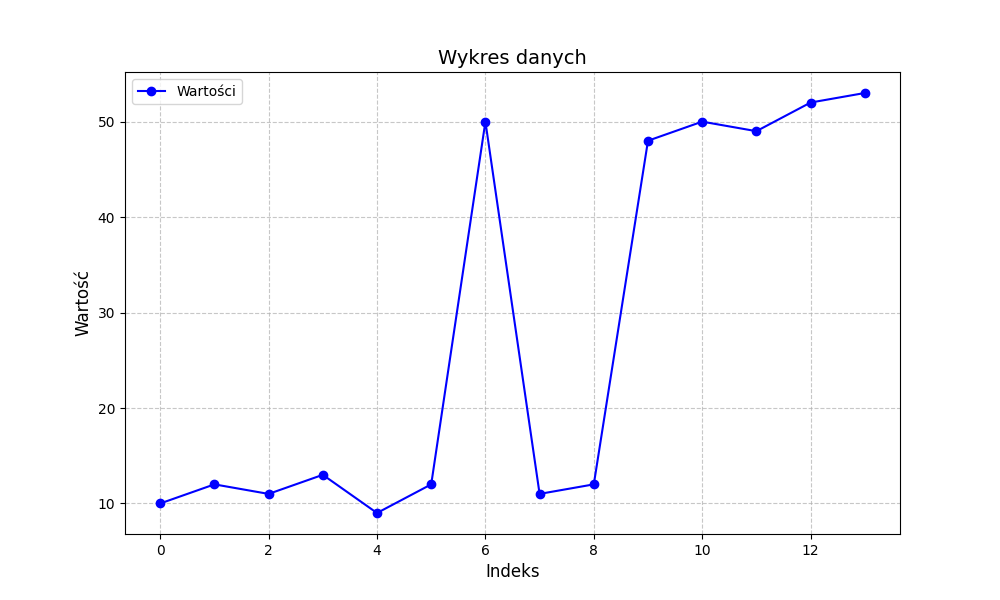
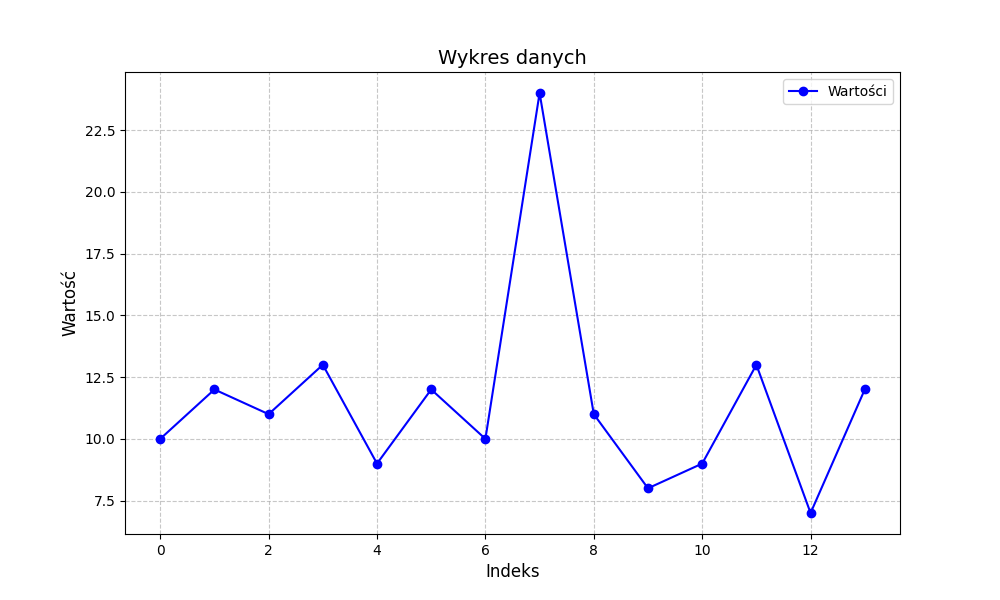
feat/fix: data for paper

diff --git a/presentatioFile/anomalyPlot.py b/presentatioFile/anomalyPlot.py
@@ -1,16 +1,62 @@
 import pandas as pd
 import matplotlib.pyplot as plt
 
-df = pd.read_csv('presentatioFile/dane.csv')
+#df = pd.read_csv('presentatioFile/dane1.csv')
+
+point_data = [ 20, 17, 21, 18, 19, 21, 22, 18, 20, 52, 20, 17, 21, 18, 19, 21, 22, 18, 20,]
+point_anomaly = [ 0, 0, 0, 0, 0, 0, 0, 0, 0, 1, 0, 0, 0, 0, 0, 0, 0, 0, 0]
+df_point = pd.DataFrame({"Value": point_data, "Anomaly": point_anomaly})
+
+collective_data = [ 20, 17, 21, 18, 19, 21, 22, 18, 50, 52, 51, 54, 21, 18, 19, 21, 22, 18, 20,]
+collective_data_anomaly = [ 0, 0, 0, 0, 0, 0, 0, 0, 1, 1, 1, 1, 0, 0, 0, 0, 0, 0, 0]
+df_collective= pd.DataFrame({"Value": collective_data, "Anomaly": collective_data_anomaly})
+
+contextual_data = [ 40, 10, 9, 11, -10, 12, 8, 8, 41, 9, 10, 10, -12, 12, 11, 10, 10, 10, 12, 13, -11]
+contextual_data_anomaly = [ 0, 0,0,0,0,0,0,0,0,0,0,0,0,0,0,0,1,0,0,0,0]
+df_contextual = pd.DataFrame({"Value": contextual_data, "Anomaly": contextual_data_anomaly})
+
+anomaly_point_data = df_point[df_point["Anomaly"] == 1]
+anomaly_collective_data = df_collective[df_collective["Anomaly"] == 1]
+anomaly_contextual_data = df_contextual[df_contextual["Anomaly"] == 1]
 
 plt.figure(figsize=(10, 6))
-plt.plot(df.iloc[:, 0], marker='o', linestyle='-', color='b', label='Wartości')
+plt.plot(point_data, linestyle='-', color='b', label='Value')
 
-plt.title('Wykres danych', fontsize=14)
-plt.xlabel('Indeks', fontsize=12)
-plt.ylabel('Wartość', fontsize=12)
+plt.scatter( anomaly_point_data.index, anomaly_point_data["Value"], color="red", marker="o", label="Anomaly")
+
+plt.title('Point Anomaly Plot', fontsize=14)
+plt.xlabel('Index', fontsize=12)
+plt.ylabel('Value', fontsize=12)
 plt.grid(True, linestyle='--', alpha=0.7)
 plt.legend()
 
-plt.savefig('presentatioFile/wykres.png')
+plt.savefig('presentatioFile/wykres1.png')
+plt.show()
+
+plt.figure(figsize=(10, 6))
+plt.plot(collective_data, linestyle='-', color='b', label='Value')
+
+plt.scatter( anomaly_collective_data.index, anomaly_collective_data["Value"], color="red", marker="o", label="Anomaly")
+
+plt.title('Collective Anomaly Plot', fontsize=14)
+plt.xlabel('Index', fontsize=12)
+plt.ylabel('Value', fontsize=12)
+plt.grid(True, linestyle='--', alpha=0.7)
+plt.legend()
+
+plt.savefig('presentatioFile/wykres2.png')
+plt.show()
+
+plt.figure(figsize=(10, 6))
+plt.plot(contextual_data, linestyle='-', color='b', label='Value')
+
+plt.scatter( anomaly_contextual_data.index, anomaly_contextual_data["Value"], color="red", marker="o", label="Anomaly")
+
+plt.title('Contextual Anomaly Plot', fontsize=14)
+plt.xlabel('Index', fontsize=12)
+plt.ylabel('Value', fontsize=12)
+plt.grid(True, linestyle='--', alpha=0.7)
+plt.legend()
+
+plt.savefig('presentatioFile/wykres3.png')
 plt.show()

diff --git a/print_data.py b/print_data.py
@@ -1,0 +1,30 @@
+import pandas as pd
+import matplotlib.pyplot as plt
+
+def plot_stock_data(csv_path="intel_labeling_dataset.csv"):
+    df = pd.read_csv(csv_path, parse_dates=['Date'], index_col='Date')
+
+    fig, (ax1, ax2) = plt.subplots(nrows=2, ncols=1, figsize=(12, 8), sharex=True)
+
+    ax1.plot(df.index, df['close'], label='Cena (close)', color='royalblue', linewidth=1.5)
+    if 'SMA50' in df.columns:
+        ax1.plot(df.index, df['SMA50'], label='Trend (SMA50)', color='darkorange', linewidth=1.5, linestyle='--')
+    ax1.set_ylabel("Cena", fontsize=12)
+    ax1.legend(loc='upper left')
+    ax1.grid(True, linestyle='--', alpha=0.5)
+
+    bar_colors = ['forestgreen' if r >= 0 else 'crimson' for r in df['Return']]
+    ax2.bar(df.index, df['Return'], color=bar_colors, alpha=0.7, width=0.8, label='Stopa zwrotu (Return)')
+    
+    ax2.axhline(0, color='black', linewidth=0.8, linestyle='-', alpha=0.6)
+    ax2.set_xlabel("Data", fontsize=12)
+    ax2.set_ylabel("Return", fontsize=12)
+    ax2.legend(loc='upper left')
+    ax2.grid(True, linestyle='--', alpha=0.5)
+
+    plt.xticks(rotation=45)
+    plt.tight_layout()
+    plt.show()
+
+if __name__ == "__main__":
+    plot_stock_data("intel_labeling_dataset.csv")
